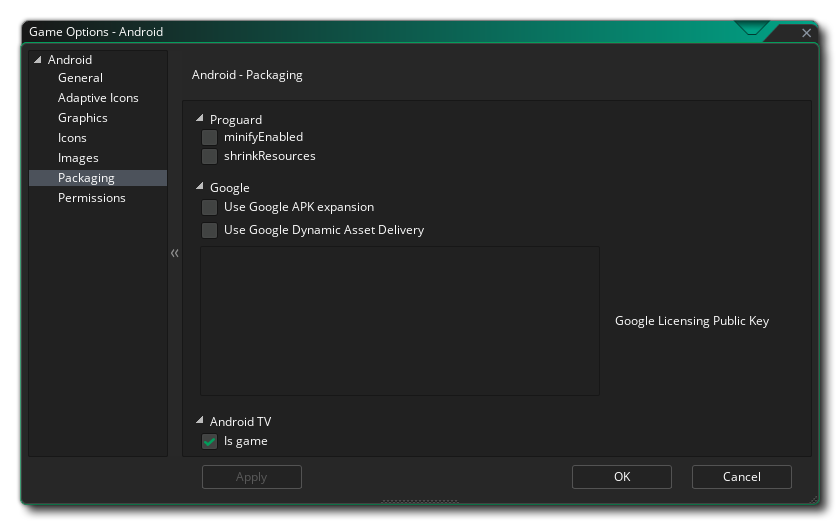
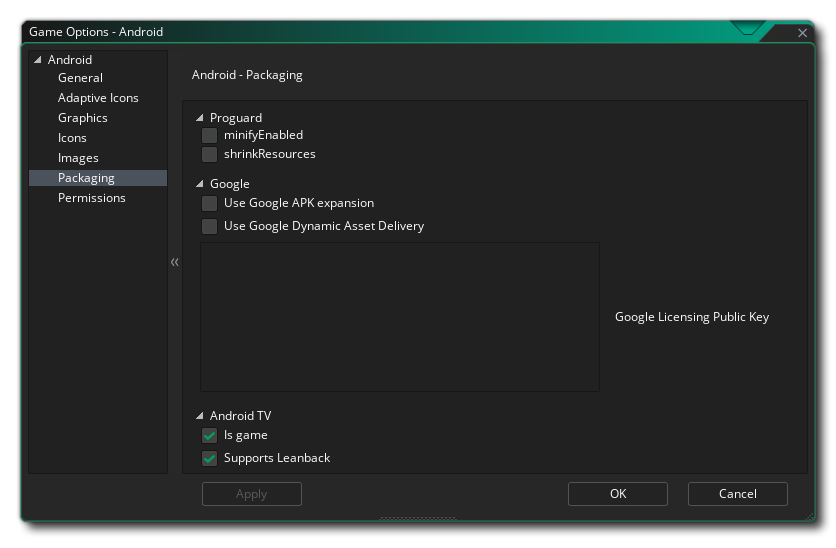
[general] disable right-to-left ordering
(cherry picked from commit 0a825ac814d8100b7643633246b2fffa792964e8)

diff --git a/Manual/contents/Settings/Game_Options/Android.htm b/Manual/contents/Settings/Game_Options/Android.htm
@@ -4,7 +4,7 @@
 <head>
   <meta http-equiv="Content-Type" content="text/html; charset=utf-8" />
   <title>Android</title>
-  <meta name="generator" content="Adobe RoboHelp 2020" />
+  <meta name="generator" content="Adobe RoboHelp 2022" />
   <link rel="stylesheet" href="../../assets/css/default.css" type="text/css" />
   <script src="../../assets/scripts/main_script.js"></script>
   <meta name="rh-authors" content="Mark Alexander" />
@@ -90,18 +90,19 @@
   <p> </p>
   <h2 id="packaging">Packaging</h2>
   <p><img alt="Android Packaging Options" class="center" src="../../assets/Images/Settings/Android_Packaging_Options.png" /></p>
-  <h2 id="proguard">Proguard</h2>
+  <h3 id="proguard">Proguard</h3>
   <p>Here you can enable &quot;<strong>minifyEnabled</strong>&quot; and &quot;<strong>shrinkResources</strong>&quot; for Proguard to reduce your APK file size.</p>
   <p>&quot;<strong>minifyEnabled</strong>&quot; removes unnecessary code from your final executable, and &quot;<strong>shrinkResources</strong>&quot; removes any resources that become unreferenced after minifying, hence it&#39;s dependent on the former option being enabled.</p>
   <p>See the sections &quot;<strong>Shrink your code</strong>&quot; and &quot;<strong>Shrink your resources</strong>&quot; <a href="https://developer.android.com/studio/build/shrink-code">on Android Developers</a>.</p>
-  <h2 id="google">Google</h2>
+  <h3 id="google">Google</h3>
   <p>One of the features of using Google Play for your Android games is the ability to <strong>licence </strong>your games. This means that your games will be controlled by Google so that only people that have downloaded it through their market will be able to play the game, thus avoiding illegal copies of your product from getting distributed.</p>
   <p>To activate this function in your game, you need to copy your <strong>Public Key</strong> into the box labelled <strong>Google Licencing Public Key</strong>. This licence can be found by going to your <a href="https://play.google.com/apps/publish">Google Play Developers Page</a> and then selecting the game you wish to edit. Once on the game profile page, scroll down to the section titled &quot;<em>Services &amp; APIs</em>&quot; and there you should find the Public key that is needed for this functionality to be enabled.</p>
   <p>Once activated, if anyone who is not authorised to posses your game tries to play it, they will be shown a pop-up message box that will inform them that the licence cannot be found on their device, and then give them the option to retry and test again, or exit the game.</p>
   <p>Another feature of Licensing is that your game can use <strong>APK Expansions</strong>. This is a way to bypass the 50MB maximum application size imposed by Google Play (and only Google Play). It will create your game in two parts: a small <span class="inline">*.apk</span> file and a larger <span class="inline">*.zip</span> file which will hold all your games assets, both of which are uploaded to the store. When the user first runs your game, the zip will be downloaded and unpacked. You can find further details of this option <a href="https://help.yoyogames.com/hc/en-us/articles/115002418632-Android-Using-APK-Expansions-With-Google-Play">here</a>.</p>
   <p>You can also use Google Dynamic Asset Delivery to create app bundles as large as 1GB when using the <span class="inline">*.aab</span> export option. This packages all game assets as &quot;install-time&quot; assets which are installed alongside the app itself. You can find further details on this feature <a href="https://developer.android.com/guide/playcore/asset-delivery" title="Asset Delivery">here</a>.</p>
-  <h2 id="android_tv">Android TV</h2>
+  <h3 id="android_tv">Android TV</h3>
   <p>Finally, you have the option to prepare the final app package as an <strong>Android TV</strong> game (you should only tick this if your game conforms to the <a href="https://developer.android.com/training/tv/games/">Android TV guidelines</a>).</p>
+  <p>Yoou can also select whether your game <a href="https://developer.android.com/jetpack/androidx/releases/leanback">supports Leanback</a>.</p>
   <h2 id="permissions">Permissions</h2>
   <p><img alt="Android Permission Options" class="center" src="../../assets/Images/Settings/Android_Permissions_Options.png" />From this tab you can change some of the permissions that your game may request within the Android Manifest. <span data-keyref="GameMaker Name">GameMaker</span> will allocate permissions automatically as required based on the functions the game uses, however you may find you require a permission for your game that hasn&#39;t been correctly assigned (for example, when you use custom extensions) in which case tick the requisite permission box.</p>
   <p>The list below outlines those permissions that are available:</p>
@@ -120,7 +121,7 @@
   </ul>
   <p>It is worth noting that for target API 28 and above, you will no longer be permitted to use any external web calls using &quot;<span class="inline">http</span>&quot; - &quot;<span class="inline">https</span>&quot; is required instead - unless you add the following tag:</p>
   <p class="code">android:usesCleartextTraffic=&quot;true&quot;</p>
-  <p> </p>
+  <p>Finally you can enable the <a href="https://developer.android.com/guide/topics/manifest/application-element#allowbackup">android:allowBackup</a> attribute.</p>
   <p> </p>
   <p> </p>
   <div class="footer">

diff --git a/Manual/contents/Setting_Up_And_Version_Information/IDE_Preferences/Text_Editor_Preferences.htm b/Manual/contents/Setting_Up_And_Version_Information/IDE_Preferences/Text_Editor_Preferences.htm
@@ -4,7 +4,7 @@
 <head>
   <meta http-equiv="Content-Type" content="text/html; charset=utf-8" />
   <title>Text Editor Preferences</title>
-  <meta name="generator" content="Adobe RoboHelp 2020" />
+  <meta name="generator" content="Adobe RoboHelp 2022" />
   <link rel="stylesheet" href="../../assets/css/default.css" type="text/css" />
   <script src="../../assets/scripts/main_script.js"></script>
   <meta name="rh-authors" content="Mark Alexander" />
@@ -29,6 +29,7 @@
     <li><strong>Default code window height</strong>: Set the default height (in pixels) for the code window to be when opened. Default value is 600.</li>
     <li><strong>Minimum code window width</strong>: Set the minimum width (in pixels) permitted by the code window. Default value is 300.</li>
     <li><strong>Minimum code window height</strong>: Set the minimum height (in pixels) permitted by the code window. Default value is 200.</li>
+    <li><strong>Disable Right-To-Left Ordering</strong>: This disables right-to-left ordering for text, resulting in a performance boost. This must be unchecked if you wish to use a right-to-left ordered font in your text editor for comments.</li>
   </ul>
   <p> </p>
   <p>Apart from the options above there are two sub-categories, Code Editor and Visual Editor, described below.</p>
